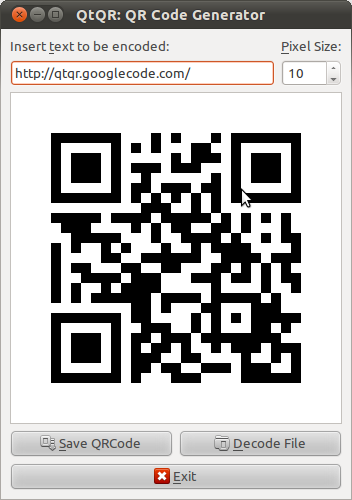
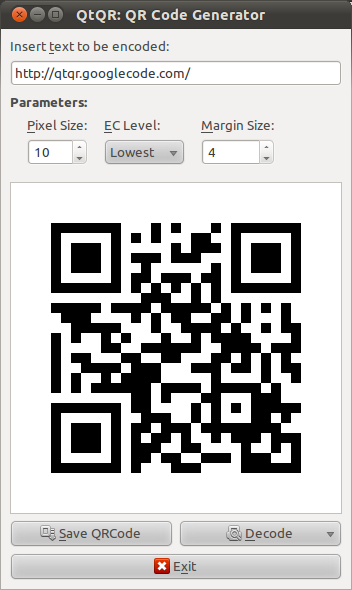
Added qrtools.py and Updating Screenshot.

diff --git a/qrtools.py b/qrtools.py
@@ -1,0 +1,145 @@
+#!/usr/bin/env python
+
+# Authors:
+#   David Green <david4dev@gmail.com>
+#   Ramiro Algozino <algozino@gmail.com>
+#
+# qr.py: Library for encoding/decoding QR Codes (2D barcodes).
+# Copyright (C) 2011 David Green <david4dev@gmail.com>
+#
+# `qr.py` is free software: you can redistribute it and/or modify it under the
+# terms of the GNU General Public License as published by the Free
+# Software Foundation, either version 3 of the License, or (at your option) any
+# later version.
+#
+# `qr.py` is distributed in the hope that it will be useful, but WITHOUT ANY
+# WARRANTY; without even the implied warranty of MERCHANTABILITY or FITNESS FOR
+# A PARTICULAR PURPOSE.  See the GNU General Public License for more
+# details.
+#
+# You should have received a copy of the GNU General Public License along
+# with `qr.py`.  If not, see <http://www.gnu.org/licenses/>.
+import subprocess
+import os
+import time
+import shutil
+import hashlib
+import zbar
+import Image
+import re
+
+class QR(object):
+
+    #use these for custom data formats eg. url, phone number, VCARD
+    data_encode = {
+        'text' : lambda data: str(data),
+        'url' : lambda data: 'http://' + re.compile(
+                r'^http://', re.IGNORECASE
+            ).sub('', str(data)),
+        'email' :lambda data: 'mailto:' + re.compile(
+                r'^mailto:', re.IGNORECASE
+            ).sub('', str(data)),
+        'telephone' : lambda data: 'tel:' + re.compile(
+                r'^tel:', re.IGNORECASE
+            ).sub('', str(data)),
+    }
+
+    data_decode = {}
+
+    data_recognise = {}
+
+    def __init__(
+        self, pixel_size=3, level='L', margin_size=4,
+        data_type='text', data='NULL', filename=None
+    ):
+        self.pixel_size = pixel_size
+        self.level = level
+        self.margin_size = margin_size
+        self.data_type = data_type
+        self.data = data
+        #get a temp directory
+        self.directory = os.path.join('/tmp', 'qr-%f' % time.time())
+        self.filename = filename
+        os.makedirs(self.directory)
+
+    def data_to_string(self):
+        return self.__class__.data_encode[self.data_type](self.data)
+
+    def get_tmp_file(self):
+        return os.path.join(
+            self.directory,
+            #filename is hash of data
+            hashlib.sha256(self.data_to_string()).hexdigest() + '.png'
+        )
+
+    def encode(self, filename=None):
+        self.filename = filename or self.get_tmp_file()
+        if not self.filename.endswith('.png'):
+            self.filename += '.png'
+        return subprocess.Popen([
+            'qrencode',
+            '-o', self.filename,
+            '-s', str(self.pixel_size),
+            '-m', str(self.margin_size),
+            '-l', self.level,
+            self.data_to_string()
+        ]).wait()
+
+    def decode(self, filename=None):
+        self.filename = filename or self.filename
+        if self.filename:
+            scanner = zbar.ImageScanner()
+            # configure the reader
+            scanner.parse_config('enable')
+            # obtain image data
+            pil = Image.open(self.filename).convert('L')
+            width, height = pil.size
+            raw = pil.tostring()
+            # wrap image data
+            image = zbar.Image(width, height, 'Y800', raw)
+            # scan the image for barcodes
+            scanner.scan(image)
+            # extract results
+            for symbol in image:
+                pass
+            # clean up
+            del(image)
+            self.data = symbol.data
+            self.data_type = 'text'
+            return True
+        else:
+            return False
+
+    def decode_webcam(self, callback=lambda s:None, device='/dev/video0'):
+        # create a Processor
+        proc = zbar.Processor()
+
+        # configure the Processor
+        proc.parse_config('enable')
+
+        # initialize the Processor
+        proc.init(device)
+
+        # setup a callback
+        def my_handler(proc, image, closure):
+            # extract results
+            for symbol in image:
+                if not symbol.count:
+                    self.data = symbol.data
+                    self.data_type = 'text'
+                    callback(symbol.data)
+
+        proc.set_data_handler(my_handler)
+
+        # enable the preview window
+        proc.visible = True
+
+        # initiate scanning
+        proc.active = True
+        try:
+            proc.user_wait()
+        except zbar.WindowClosed:
+            pass
+
+    def destroy(self):
+        shutil.rmtree(self.directory)
